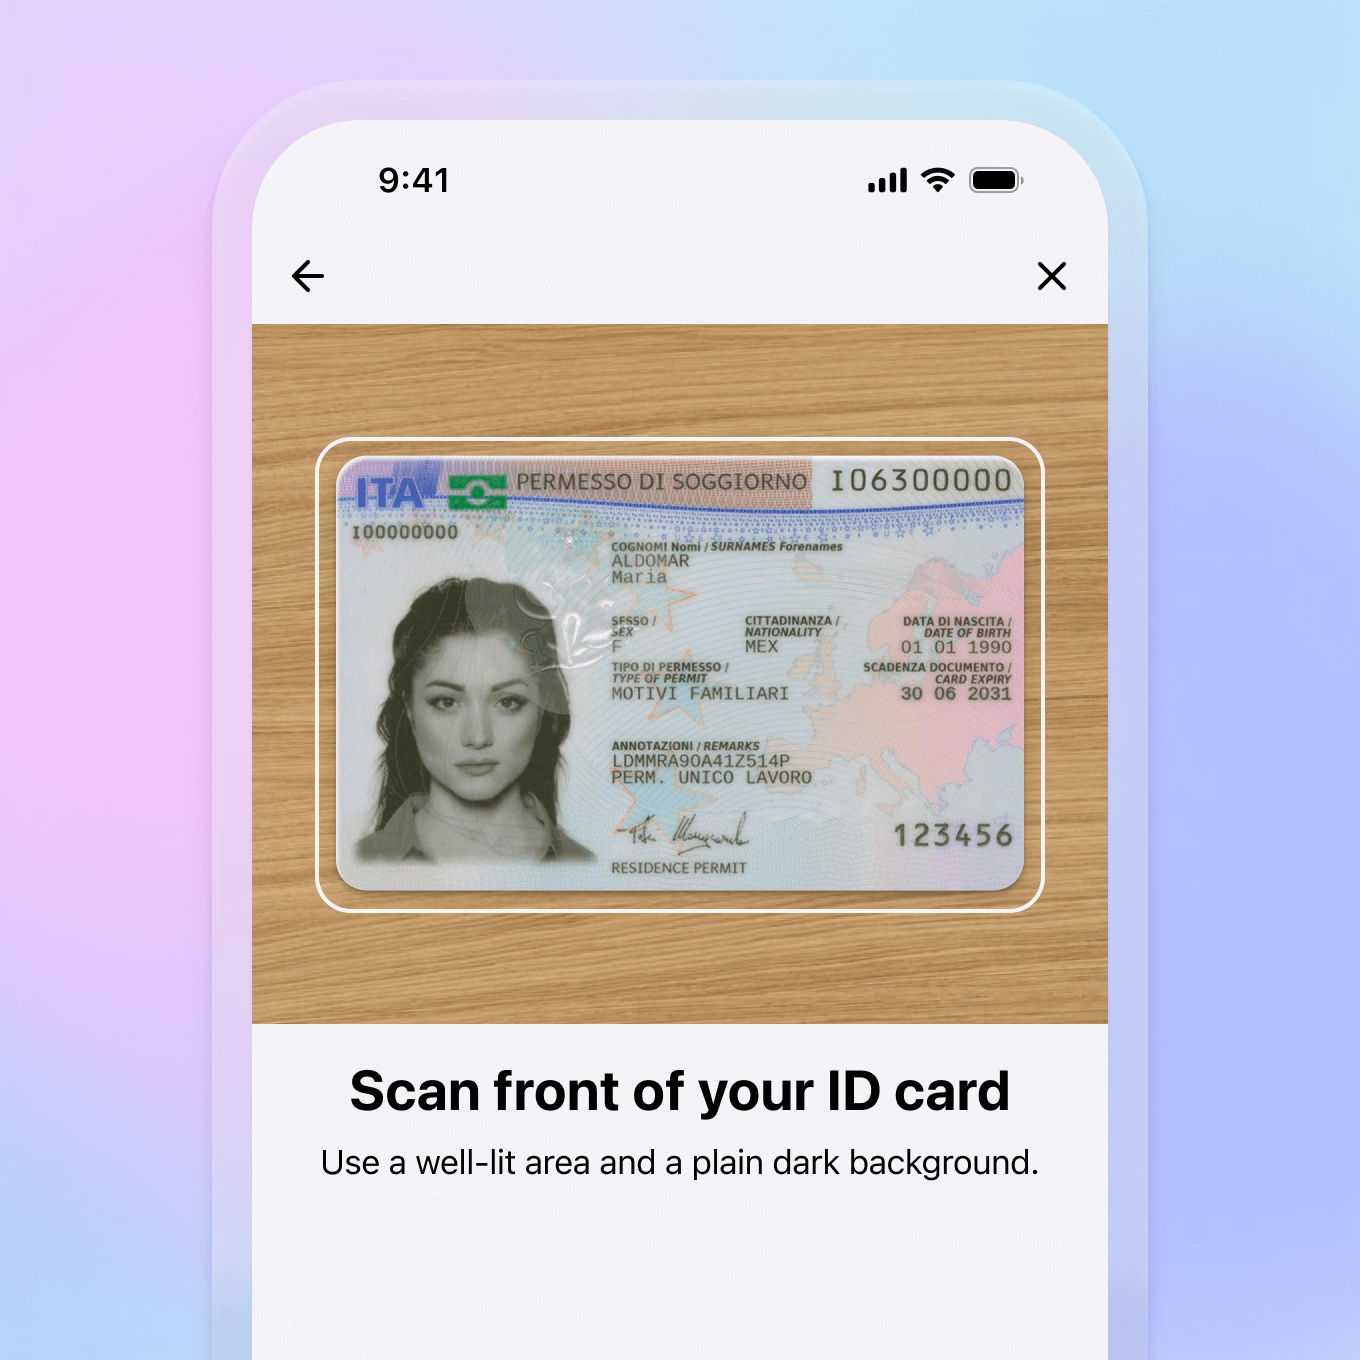
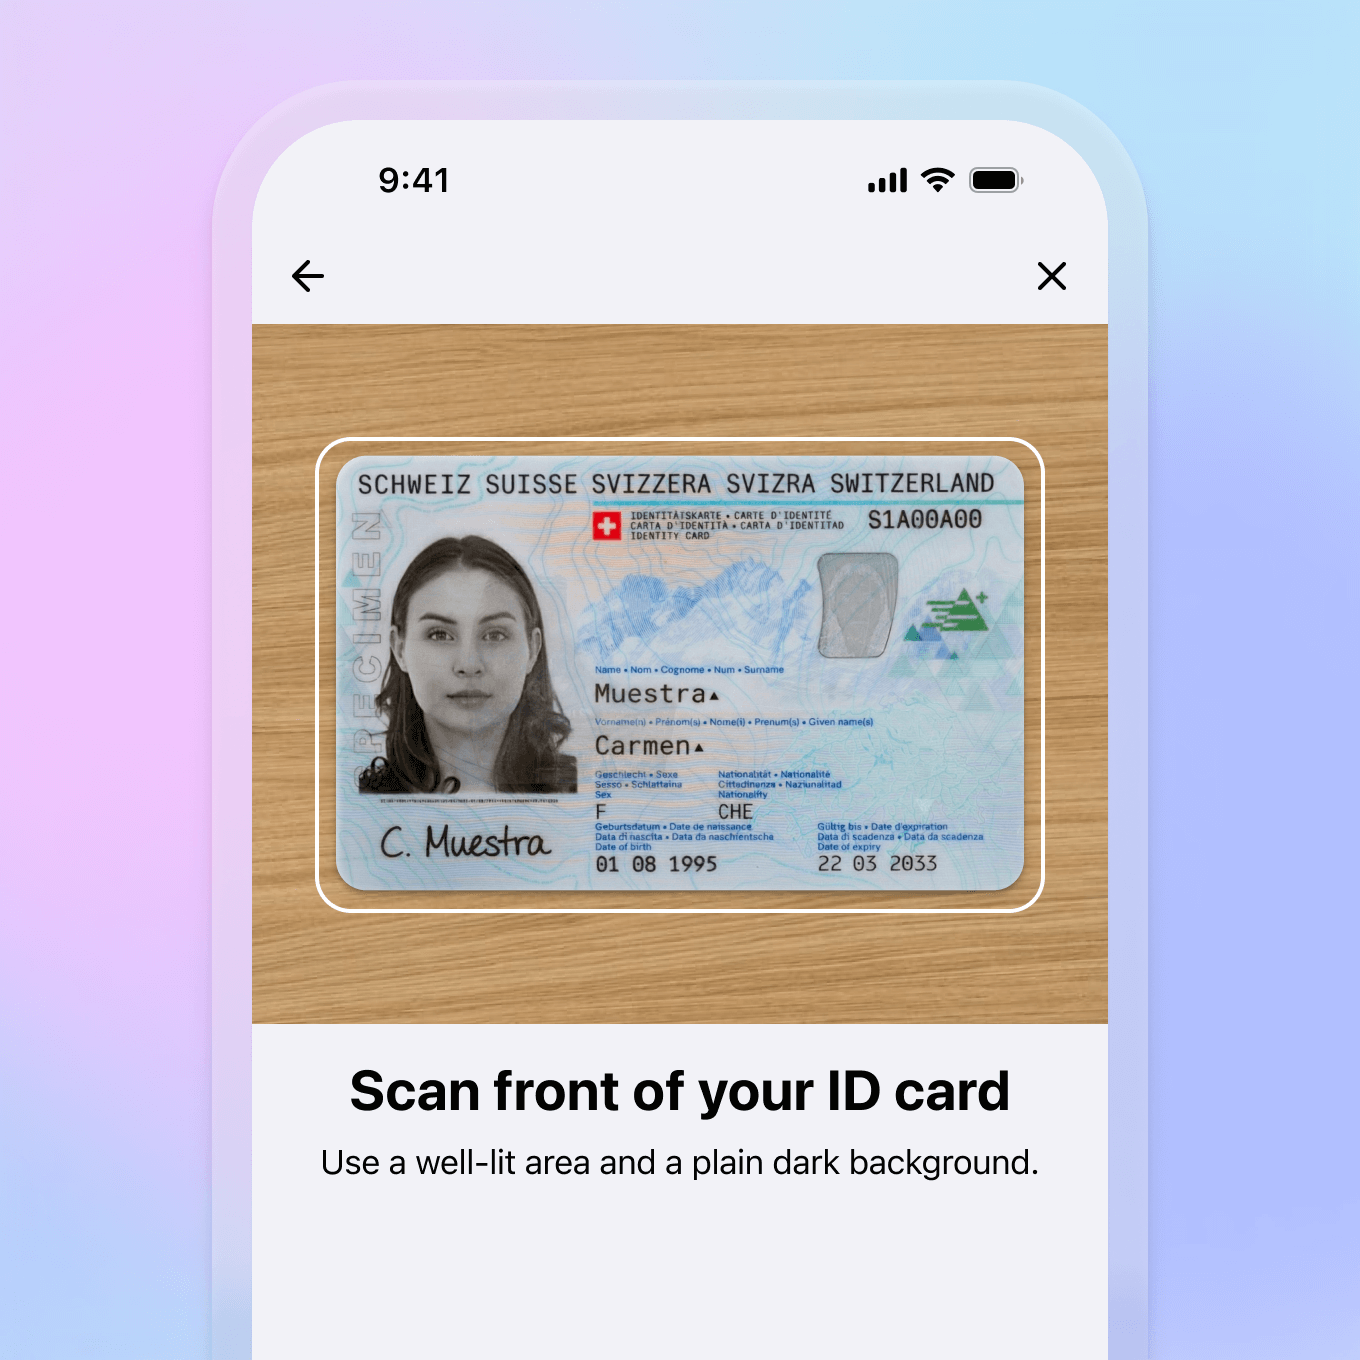
Update identity verification images and adjust default selection in IdentityVerificationPage for improved user experience and visual consistency.

Changed region(s): [[0.2471, 0.3088, 0.7721, 0.6794]]

diff --git a/src/pages/IdentityVerificationPage.tsx b/src/pages/IdentityVerificationPage.tsx
@@ -35,16 +35,16 @@ const BACKGROUND_STYLE = {
 // Verification methods data (using AccordionItemData format)
 const verificationMethods: AccordionItemData[] = [
   {
-    id: 'photo-based',
-    title: 'Photo-based ID verification',
-    description: 'Users capture a photo of their identity document. Folio extracts and validates the data instantly using OCR, document authenticity checks and biometric liveness detection for highly accurate and trusted results.',
-    desktopImage: identityVerificationPhotoBased,
-  },
-  {
     id: 'video-based',
     title: 'Video-based ID verification',
     description: 'For high assurance or regulated use cases, verification can run through a short recorded session or a guided video flow. Folio evaluates liveness, document presence and behavioral cues to verify users in real time.',
     desktopImage: identityVerificationVideoBased,
+  },
+  {
+    id: 'photo-based',
+    title: 'Photo-based ID verification',
+    description: 'Users capture a photo of their identity document. Folio extracts and validates the data instantly using OCR, document authenticity checks and biometric liveness detection for highly accurate and trusted results.',
+    desktopImage: identityVerificationPhotoBased,
   },
   {
     id: 'nfc-based',
@@ -116,7 +116,7 @@ export default function IdentityVerificationPage() {
     ogUrl: 'https://folio.id/solutions/identity-verification'
   })
 
-  const [activeMethodId, setActiveMethodId] = useState<string | null>('photo-based')
+  const [activeMethodId, setActiveMethodId] = useState<string | null>('video-based')
   
   const activeMethod = verificationMethods.find(item => item.id === activeMethodId) || verificationMethods[0]
 
@@ -227,7 +227,7 @@ export default function IdentityVerificationPage() {
               />
               <Accordion
                 items={verificationMethods}
-                defaultOpenId="photo-based"
+                defaultOpenId="video-based"
                 onItemChange={setActiveMethodId}
                 showMobileImages={false}
               />
@@ -243,7 +243,7 @@ export default function IdentityVerificationPage() {
             />
             <Accordion
               items={verificationMethods}
-              defaultOpenId="photo-based"
+              defaultOpenId="video-based"
               showMobileImages={true}
             />
           </div>
